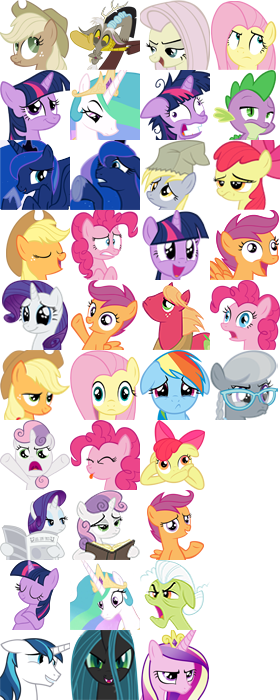
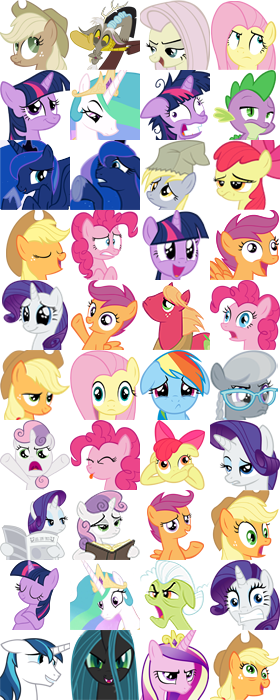
Add 6 new ponymoticons
New in this batch:
:rarityreally: :applegasp: :rarishock: :applederp: :trixiesad:
:changeling:

Changed region(s): [[0.7429, 0.6, 1.0, 1.0]]

diff --git a/JabbR/Chat.emoji.js b/JabbR/Chat.emoji.js
@@ -4,7 +4,7 @@ var EmojiIcons;
 (function ($, window) {
     var validEmoji = { "+1": true, "-1": true, "0": true, "1": true, "109": true, "2": true, "3": true, "4": true, "5": true, "6": true, "7": true, "8": true, "8ball": true, "9": true, "a": true, "ab": true, "airplane": true, "alien": true, "ambulance": true, "angel": true, "anger": true, "angry": true, "apple": true, "aquarius": true, "aries": true, "arrow_backward": true, "arrow_down": true, "arrow_forward": true, "arrow_left": true, "arrow_lower_left": true, "arrow_lower_right": true, "arrow_right": true, "arrow_up": true, "arrow_upper_left": true, "arrow_upper_right": true, "art": true, "astonished": true, "atm": true, "b": true, "baby": true, "baby_chick": true, "baby_symbol": true, "balloon": true, "bamboo": true, "bank": true, "barber": true, "baseball": true, "basketball": true, "bath": true, "bear": true, "beer": true, "beers": true, "beginner": true, "bell": true, "bento": true, "bike": true, "bikini": true, "bird": true, "birthday": true, "black_square": true, "blue_car": true, "blue_heart": true, "blush": true, "boar": true, "boat": true, "bomb": true, "book": true, "boot": true, "bouquet": true, "bow": true, "bowtie": true, "boy": true, "bread": true, "briefcase": true, "broken_heart": true, "bug": true, "bulb": true, "bullettrain_front": true, "bullettrain_side": true, "bus": true, "busstop": true, "cactus": true, "cake": true, "calling": true, "camel": true, "camera": true, "cancer": true, "capricorn": true, "car": true, "cat": true, "cd": true, "chart": true, "checkered_flag": true, "cherry_blossom": true, "chicken": true, "christmas_tree": true, "church": true, "cinema": true, "city_sunrise": true, "city_sunset": true, "clap": true, "clapper": true, "clock1": true, "clock10": true, "clock11": true, "clock12": true, "clock2": true, "clock3": true, "clock4": true, "clock5": true, "clock6": true, "clock7": true, "clock8": true, "clock9": true, "closed_umbrella": true, "cloud": true, "clubs": true, "cn": true, "cocktail": true, "coffee": true, "cold_sweat": true, "computer": true, "confounded": true, "congratulations": true, "construction": true, "construction_worker": true, "convenience_store": true, "cool": true, "cop": true, "copyright": true, "couple": true, "couple_with_heart": true, "couplekiss": true, "cow": true, "crossed_flags": true, "crown": true, "cry": true, "cupid": true, "currency_exchange": true, "curry": true, "cyclone": true, "dancer": true, "dancers": true, "dango": true, "dart": true, "dash": true, "de": true, "department_store": true, "diamonds": true, "disappointed": true, "dog": true, "dolls": true, "dolphin": true, "dress": true, "dvd": true, "ear": true, "ear_of_rice": true, "egg": true, "eggplant": true, "eight_pointed_black_star": true, "eight_spoked_asterisk": true, "elephant": true, "email": true, "es": true, "european_castle": true, "exclamation": true, "eyes": true, "factory": true, "fallen_leaf": true, "fast_forward": true, "fax": true, "fearful": true, "feelsgood": true, "feet": true, "ferris_wheel": true, "finnadie": true, "fire": true, "fire_engine": true, "fireworks": true, "fish": true, "fist": true, "flags": true, "flushed": true, "football": true, "fork_and_knife": true, "fountain": true, "four_leaf_clover": true, "fr": true, "fries": true, "frog": true, "fuelpump": true, "gb": true, "gem": true, "gemini": true, "ghost": true, "gift": true, "gift_heart": true, "girl": true, "goberserk": true, "godmode": true, "golf": true, "green_heart": true, "grey_exclamation": true, "grey_question": true, "grin": true, "guardsman": true, "guitar": true, "gun": true, "haircut": true, "hamburger": true, "hammer": true, "hamster": true, "hand": true, "handbag": true, "hankey": true, "hash": true, "headphones": true, "heart": true, "heart_decoration": true, "heart_eyes": true, "heartbeat": true, "heartpulse": true, "hearts": true, "hibiscus": true, "high_heel": true, "horse": true, "hospital": true, "hotel": true, "hotsprings": true, "house": true, "hurtrealbad": true, "icecream": true, "id": true, "ideograph_advantage": true, "imp": true, "information_desk_person": true, "iphone": true, "it": true, "jack_o_lantern": true, "japanese_castle": true, "joy": true, "jp": true, "key": true, "kimono": true, "kiss": true, "kissing_face": true, "kissing_heart": true, "koala": true, "koko": true, "kr": true, "leaves": true, "leo": true, "libra": true, "lips": true, "lipstick": true, "lock": true, "loop": true, "loudspeaker": true, "love_hotel": true, "mag": true, "mahjong": true, "mailbox": true, "man": true, "man_with_gua_pi_mao": true, "man_with_turban": true, "maple_leaf": true, "mask": true, "massage": true, "mega": true, "memo": true, "mens": true, "metal": true, "metro": true, "microphone": true, "minidisc": true, "mobile_phone_off": true, "moneybag": true, "monkey": true, "monkey_face": true, "moon": true, "mortar_board": true, "mount_fuji": true, "mouse": true, "movie_camera": true, "muscle": true, "musical_note": true, "nail_care": true, "necktie": true, "new": true, "no_good": true, "no_smoking": true, "nose": true, "notes": true, "o": true, "o2": true, "ocean": true, "octocat": true, "octopus": true, "oden": true, "office": true, "ok": true, "ok_hand": true, "ok_woman": true, "older_man": true, "older_woman": true, "open_hands": true, "ophiuchus": true, "palm_tree": true, "parking": true, "part_alternation_mark": true, "pencil": true, "penguin": true, "pensive": true, "persevere": true, "person_with_blond_hair": true, "phone": true, "pig": true, "pill": true, "pisces": true, "point_down": true, "point_left": true, "point_right": true, "point_up": true, "point_up_2": true, "police_car": true, "poop": true, "post_office": true, "postbox": true, "pray": true, "princess": true, "punch": true, "purple_heart": true, "question": true, "rabbit": true, "racehorse": true, "radio": true, "rage": true, "rage1": true, "rage2": true, "rage3": true, "rage4": true, "rainbow": true, "raised_hands": true, "ramen": true, "red_car": true, "red_circle": true, "registered": true, "relaxed": true, "relieved": true, "restroom": true, "rewind": true, "ribbon": true, "rice": true, "rice_ball": true, "rice_cracker": true, "rice_scene": true, "ring": true, "rocket": true, "roller_coaster": true, "rose": true, "ru": true, "runner": true, "sa": true, "sagittarius": true, "sailboat": true, "sake": true, "sandal": true, "santa": true, "satellite": true, "satisfied": true, "saxophone": true, "school": true, "school_satchel": true, "scissors": true, "scorpius": true, "scream": true, "seat": true, "secret": true, "shaved_ice": true, "sheep": true, "shell": true, "ship": true, "shipit": true, "shirt": true, "shit": true, "shoe": true, "signal_strength": true, "six_pointed_star": true, "ski": true, "skull": true, "sleepy": true, "slot_machine": true, "smile": true, "smiley": true, "smirk": true, "smoking": true, "snake": true, "snowman": true, "sob": true, "soccer": true, "space_invader": true, "spades": true, "spaghetti": true, "sparkler": true, "sparkles": true, "speaker": true, "speedboat": true, "squirrel": true, "star": true, "star2": true, "stars": true, "station": true, "statue_of_liberty": true, "stew": true, "strawberry": true, "sunflower": true, "sunny": true, "sunrise": true, "sunrise_over_mountains": true, "surfer": true, "sushi": true, "suspect": true, "sweat": true, "sweat_drops": true, "swimmer": true, "syringe": true, "tada": true, "tangerine": true, "taurus": true, "taxi": true, "tea": true, "telephone": true, "tennis": true, "tent": true, "thumbsdown": true, "thumbsup": true, "ticket": true, "tiger": true, "tm": true, "toilet": true, "tokyo_tower": true, "tomato": true, "tongue": true, "top": true, "tophat": true, "traffic_light": true, "train": true, "trident": true, "trollface": true, "trophy": true, "tropical_fish": true, "truck": true, "trumpet": true, "tshirt": true, "tulip": true, "tv": true, "u5272": true, "u55b6": true, "u6307": true, "u6708": true, "u6709": true, "u6e80": true, "u7121": true, "u7533": true, "u7a7a": true, "umbrella": true, "unamused": true, "underage": true, "unlock": true, "up": true, "us": true, "v": true, "vhs": true, "vibration_mode": true, "virgo": true, "vs": true, "walking": true, "warning": true, "watermelon": true, "wave": true, "wc": true, "wedding": true, "whale": true, "wheelchair": true, "white_square": true, "wind_chime": true, "wink": true, "wink2": true, "wolf": true, "woman": true, "womans_hat": true, "womens": true, "x": true, "yellow_heart": true, "zap": true, "zzz": true };
     var validv4c = { "ducktart" : "dooktart.png", "ready" : "ready.gif", "birry" : "ztop.gif", "vdog" : "cat.gif", "gaben" : "zgabe.gif", "3s" : "seal.png", "burd" : "birdy.gif", "snoop" : "snoop.gif", "jimmies" : "jimmy.gif", "sanic" : "sonicx.png", "burgirl" : "ss.gif", "dilbert" : "dilbert.gif", "deepdarkfantasy" : "fantasy.gif", "bioware" : "biogurl.gif", "shazbot" : "33.png", "bestkorea" : "kim.gif", "hitoame" : "shower.gif", "duane" : "duane.gif", "keke" : "keke6.png", "uncle" : "VffoS.jpg", "reshiram" : "ee.gif", "push" : "push.gif", "autism" : "a.gif", "juggalo" : "ll.gif", "stanza" : "heh.png", "bestgames" : "pstriple.png", "gamestop" : "spekettle.gif", "teto" : "oz.gif", "fothegrove" : "grove.gif", "aliens" : "aliens.gif", "go" : "zgo.gif", "pomf" : "pomf.png", "kreayshawn" : "kray.png", "bodywash" : "bodywash.png", "goblinu" : "zgobz.jpg", "feel" : "1ducktart.jpg", "valien" : "ssd.gif", "2spooky4me" : "spooky.gif", "2spooky" : "spooky.gif", "gooby" : "o2XNE.jpg", "dosh" : "dsdasd.png", "8bitdose" : "wee2.gif", "costanza" : "heh.png" };
-    var validPony = { "ajlie" : "a", "priceless" : "a", "flutterjerk" : "a", "flutterroll" : "a", "twipride" : "a", "celestiamad" : "a", "twicrazy" : "a", "spikemeh" : "a", "lunateehee" : "a", "lunawait" : "a", "derpwizard" : "a", "abmeh" : "a", "ajhappy" : "a", "pinkiefear" : "a", "twibeam" : "a", "scootaderp" : "a", "raritydaww" : "a", "scootacheer" : "a", "swagintosh" : "a", "pinkieawe" : "a", "ajsup" : "a", "flutterwhoa" : "a", "rdcry" : "a", "silverspoon" : "a", "ohcomeon" : "a", "ppcute" : "a", "abbored" : "a", "raritynews" : "a", "sbbook" : "a", "scootaplease" : "a", "twiright" : "a", "celestiawut" : "a", "grannysmith" : "a", "shiningarmor" : "a", "chrysalis" : "a", "cadence" : "a", "flutterfear" : "b", "ppboring" : "b", "rarityyell" : "b", "fluttershy" : "b", "ajcower" : "b", "ajsly" : "b", "eeyup" : "b", "rdsmile" : "b", "fluttersrs" : "b", "raritydress" : "b", "takealetter" : "b", "rdwut" : "b", "ppshrug" : "b", "spikenervous" : "b", "noooo" : "b", "dj" : "b", "fluttershh" : "b", "flutteryay" : "b", "squintyjack" : "b", "spikepushy" : "b", "ajugh" : "b", "raritywut" : "b", "dumbfabric" : "b", "raritywhy" : "b", "trixiesmug" : "b", "flutterwink" : "b", "rarityannoyed" : "b", "soawesome" : "b", "ajwut" : "b", "twisquint" : "b", "raritywhine" : "b", "rdcool" : "b", "abwut" : "b", "manspike" : "b", "cockatrice" : "b", "facehoof" : "b", "rarityjudge" : "b", "rarityprimp" : "b", "twirage" : "b", "ppseesyou" : "b", "rdsitting" : "c", "rdhappy" : "c", "rdannoyed" : "c", "twismug" : "c", "twismile" : "c", "twistare" : "c", "ohhi" : "c", "party" : "c", "hahaha" : "c", "flutterblush" : "c", "gross" : "c", "derpyhappy" : "c", "ajfrown" : "c", "hmmm" : "c", "joy" : "c", "raritysad" : "c", "fabulous" : "c", "derp" : "c", "louder" : "c", "lunasad" : "c", "derpyshock" : "c", "pinkamina" : "c", "loveme" : "c", "lunagasp" : "c", "scootaloo" : "c", "celestia" : "c", "angelglare" : "c", "allmybits" : "c", "zecora" : "c", "photofinish" : "c", "fillytgap" : "e", "rdhuh" : "e", "snails" : "e", "lyra" : "e", "bonbon" : "e", "spitfire" : "e", "cutealoo" : "e", "happyluna" : "e", "sotrue" : "e", "wahaha" : "e", "sbstare" : "e", "punchdrunk" : "e", "huhhuh" : "e", "absmile" : "e", "dealwithit" : "e", "nmm" : "e", "whooves" : "e", "rdsalute" : "e", "octavia" : "e", "colgate" : "e", "cheerilee" : "e", "ajbaffle" : "e", "abhuh" : "e", "thehorror" : "e", "twiponder" : "e", "spikewtf" : "e", "awwyeah" : "e", "gilda" : "e", "discentia" : "e", "manlytears" : "e" };
+    var validPony = { "ajlie": "a", "priceless": "a", "flutterjerk": "a", "flutterroll": "a", "twipride": "a", "celestiamad": "a", "twicrazy": "a", "spikemeh": "a", "lunateehee": "a", "lunawait": "a", "derpwizard": "a", "abmeh": "a", "ajhappy": "a", "pinkiefear": "a", "twibeam": "a", "scootaderp": "a", "raritydaww": "a", "scootacheer": "a", "swagintosh": "a", "pinkieawe": "a", "ajsup": "a", "flutterwhoa": "a", "rdcry": "a", "silverspoon": "a", "ohcomeon": "a", "ppcute": "a", "abbored": "a", "rarityreally": "a", "raritynews": "a", "sbbook": "a", "scootaplease": "a", "applegasp": "a", "twiright": "a", "celestiawut": "a", "grannysmith": "a", "rarishock": "a", "shiningarmor": "a", "chrysalis": "a", "cadence": "a", "applederp": "a", "flutterfear": "b", "ppboring": "b", "rarityyell": "b", "fluttershy": "b", "ajcower": "b", "ajsly": "b", "eeyup": "b", "rdsmile": "b", "fluttersrs": "b", "raritydress": "b", "takealetter": "b", "rdwut": "b", "ppshrug": "b", "spikenervous": "b", "noooo": "b", "dj": "b", "fluttershh": "b", "flutteryay": "b", "squintyjack": "b", "spikepushy": "b", "ajugh": "b", "raritywut": "b", "dumbfabric": "b", "raritywhy": "b", "trixiesmug": "b", "flutterwink": "b", "rarityannoyed": "b", "soawesome": "b", "ajwut": "b", "twisquint": "b", "raritywhine": "b", "rdcool": "b", "abwut": "b", "manspike": "b", "cockatrice": "b", "facehoof": "b", "rarityjudge": "b", "rarityprimp": "b", "twirage": "b", "ppseesyou": "b", "rdsitting": "c", "rdhappy": "c", "rdannoyed" : "c", "trixiesad": "c", "twismug": "c", "twismile": "c", "twistare": "c", "changeling": "c", "ohhi": "c", "party": "c", "hahaha": "c", "flutterblush": "c", "gross": "c", "derpyhappy": "c", "ajfrown": "c", "hmmm": "c", "joy": "c", "raritysad": "c", "fabulous": "c", "derp": "c", "louder": "c", "lunasad": "c", "derpyshock": "c", "pinkamina": "c", "loveme": "c", "lunagasp": "c", "scootaloo": "c", "celestia": "c", "angelglare": "c", "allmybits": "c", "zecora": "c", "photofinish": "c", "fillytgap": "e", "rdhuh": "e", "snails": "e", "lyra": "e", "bonbon": "e", "spitfire": "e", "cutealoo": "e", "happyluna": "e", "sotrue": "e", "wahaha": "e", "sbstare": "e", "punchdrunk": "e", "huhhuh": "e", "absmile": "e", "dealwithit": "e", "nmm": "e", "whooves": "e", "rdsalute": "e", "octavia": "e", "colgate": "e", "cheerilee": "e", "ajbaffle": "e", "abhuh": "e", "thehorror": "e", "twiponder": "e", "spikewtf": "e", "awwyeah": "e", "gilda": "e", "discentia": "e", "manlytears": "e" };
     var validAlias = { "\\:-?\\)" : ":smile:", ":-?D\\b": ":smiley:", ";-?\\)" : ":wink:", "\\:-?\\(": ":cry:", ":-?P\\b" : ":tongue:", ":-?p\\b" : ":tongue:", ":-?O\\b" : ":astonished:", ":-?o\\b" : ":astonished:" };
     var util = window.chat.utility;
 

diff --git a/JabbR/Content/ponymoticon.css b/JabbR/Content/ponymoticon.css
@@ -31,15 +31,19 @@
 .ponymoticon-ohcomeon { background-position: -0px -420px; }
 .ponymoticon-ppcute { background-position: -70px -420px; }
 .ponymoticon-abbored { background-position: -140px -420px; }
+.ponymoticon-rarityreally { background-position: -210px -420px; }
 .ponymoticon-raritynews { background-position: -0px -490px; }
 .ponymoticon-sbbook { background-position: -70px -490px; }
 .ponymoticon-scootaplease { background-position: -140px -490px; }
+.ponymoticon-applegasp { background-position: -210px -490px; }
 .ponymoticon-twiright { background-position: -0px -560px; }
 .ponymoticon-celestiawut { background-position: -70px -560px; }
 .ponymoticon-grannysmith { background-position: -140px -560px; }
+.ponymoticon-rarishock { background-position: -210px -560px; }
 .ponymoticon-shiningarmor { background-position: -0px -630px; }
 .ponymoticon-chrysalis { background-position: -70px -630px; }
 .ponymoticon-cadence { background-position: -140px -630px; }
+.ponymoticon-applederp { background-position: -210px -630px; }
 .ponymoticon-flutterfear { background-position: -0px -0px; }
 .ponymoticon-ppboring { background-position: -70px -0px; }
 .ponymoticon-rarityyell { background-position: -140px -0px; }
@@ -84,9 +88,11 @@
 .ponymoticon-rdsitting { background-position: -0px -0px; }
 .ponymoticon-rdhappy { background-position: -70px -0px; }
 .ponymoticon-rdannoyed { background-position: -140px -0px; }
+.ponymoticon-trixiesad { background-position: -210px -0px; }
 .ponymoticon-twismug { background-position: -0px -70px; }
 .ponymoticon-twismile { background-position: -70px -70px; }
 .ponymoticon-twistare { background-position: -140px -70px; }
+.ponymoticon-changeling { background-position: -210px -70px; }
 .ponymoticon-ohhi { background-position: -0px -140px; }
 .ponymoticon-party { background-position: -70px -140px; }
 .ponymoticon-hahaha { background-position: -140px -140px; }

diff --git a/JabbR/Chat.js b/JabbR/Chat.js
@@ -82,6 +82,8 @@
 
                     d.resolveWith(chat);
 
+                    ui.scrollToBottom(room);
+
                     // Watch the messages after the defer, since room messages
                     // may be appended if we are just joining the room
                     ui.watchMessageScroll(messageIds, room);
@@ -163,7 +165,7 @@
             document.title = originalTitle;
         }
         else {
-            document.title =  (isUnreadMessageForUser ? '*' : '') + '(' + unread + ') ' + originalTitle;
+            document.title = (isUnreadMessageForUser ? '*' : '') + '(' + unread + ') ' + originalTitle;
         }
     }
 
